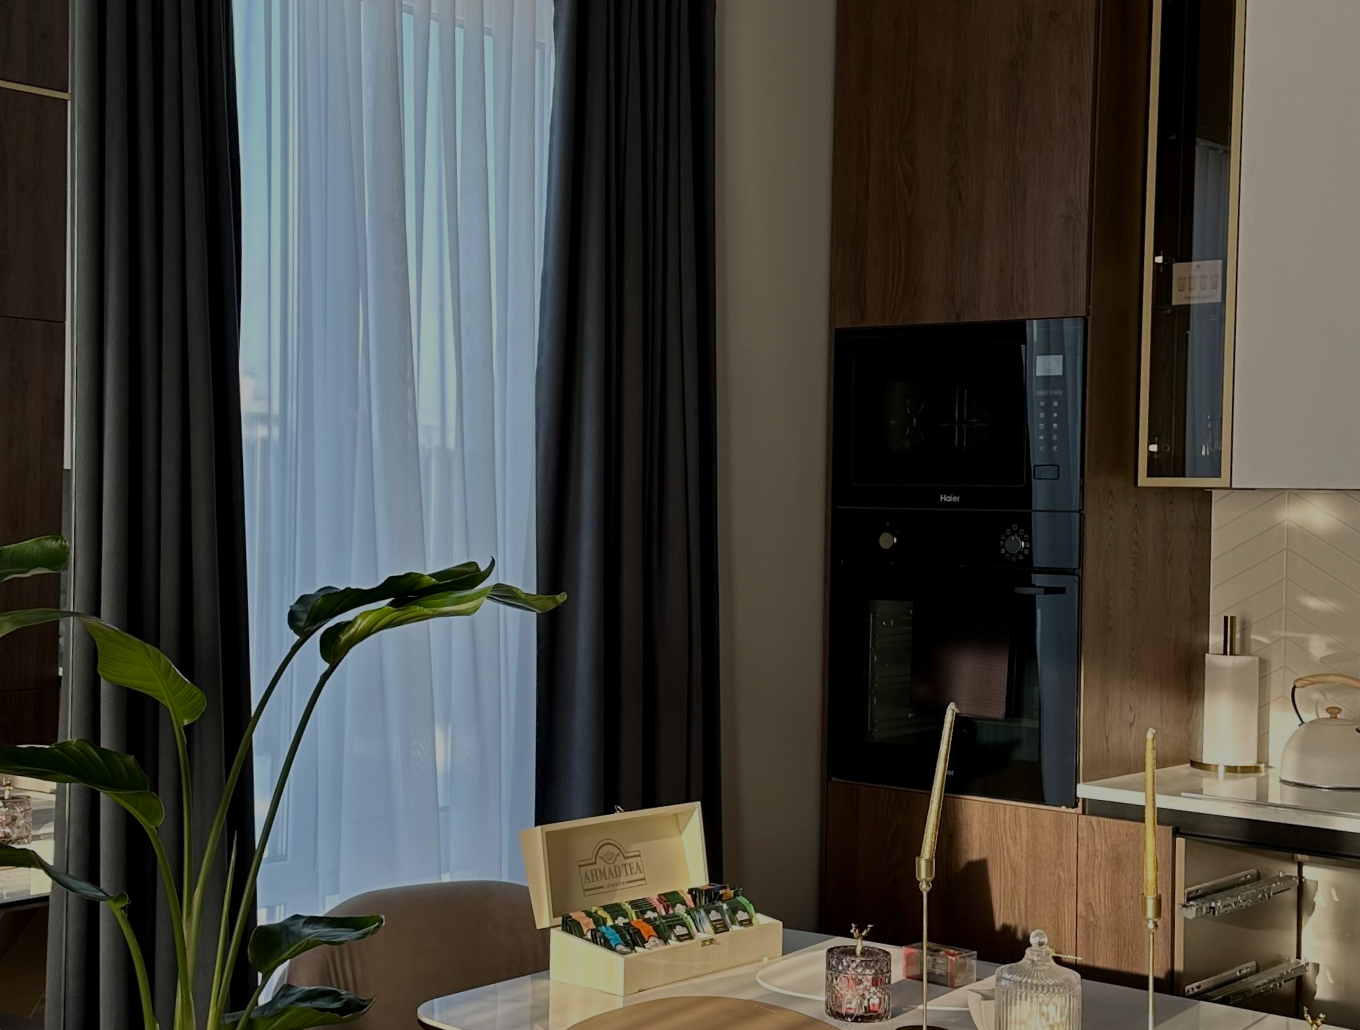
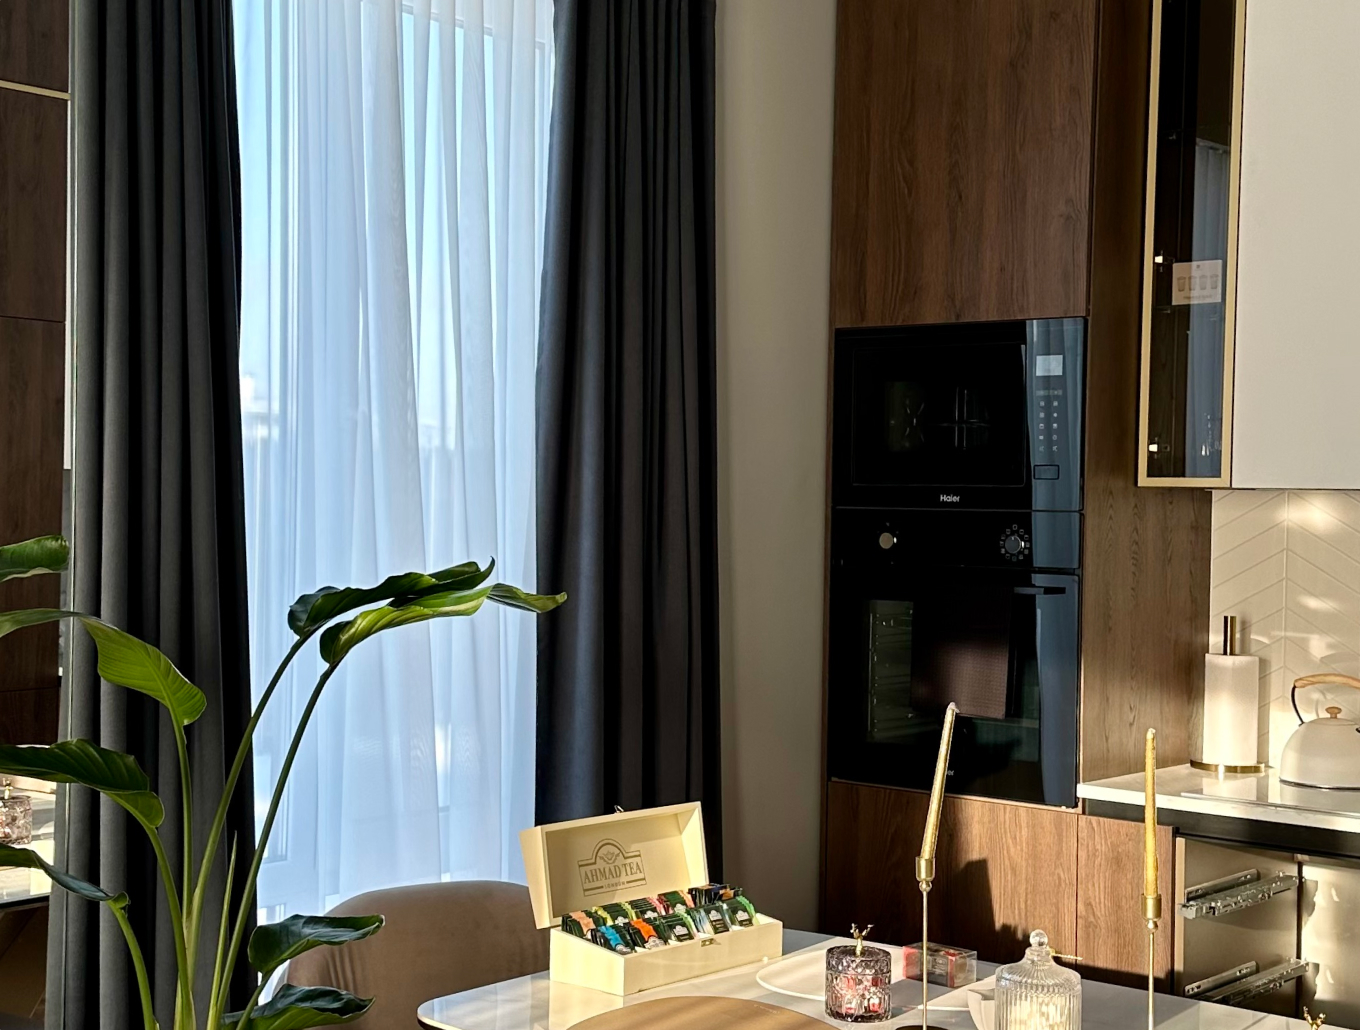
all edit

diff --git a/css/index.css b/css/index.css
@@ -1738,7 +1738,7 @@ header.sticky .header-outer {
   left: 0;
   width: 100%;
   height: 100%;
-  background: rgba(0, 0, 0, 0.15);
+  background: rgba(0, 0, 0, 0.3);
 }
 .top-section .img-wrapper img,
 .top-section .img-wrapper picture {
@@ -3703,5 +3703,60 @@ footer {
     opacity: 1;
     -webkit-clip-path: polygon(0% 10%, 100% -10%, 100% 100%, 0% 100%);
     clip-path: polygon(0% -1%, 100% -100%, 100% 100%, 0% 100%);
+  }
+}
+.whatsaupp-wpapper {
+  position: fixed;
+  bottom: 2rem;
+  right: 2rem;
+  z-index: 10;
+  width: 50px;
+  height: 50px;
+  cursor: pointer;
+  -webkit-animation: whatsAppScale 4s linear infinite;
+          animation: whatsAppScale 4s linear infinite;
+}
+@media screen and (max-width: 1199px) {
+  .whatsaupp-wpapper {
+    width: 40px;
+    height: 40px;
+  }
+}
+@media screen and (max-width: 767px) {
+  .whatsaupp-wpapper {
+    width: 30px;
+    height: 30px;
+    bottom: 1rem;
+    right: 1rem;
+  }
+}
+
+@-webkit-keyframes whatsAppScale {
+  0% {
+    -webkit-transform: scale(1);
+            transform: scale(1);
+  }
+  50% {
+    -webkit-transform: scale(1.2);
+            transform: scale(1.2);
+  }
+  100% {
+    -webkit-transform: scale(1);
+            transform: scale(1);
+  }
+}
+
+@keyframes whatsAppScale {
+  0% {
+    -webkit-transform: scale(1);
+            transform: scale(1);
+  }
+  50% {
+    -webkit-transform: scale(1.2);
+            transform: scale(1.2);
+  }
+  100% {
+    -webkit-transform: scale(1);
+            transform: scale(1);
   }
 }/*# sourceMappingURL=index.css.map */

diff --git a/scss/index.scss b/scss/index.scss
@@ -65,7 +65,7 @@ Theme Version:	1.0
             left: 0;
             width: 100%;
             height: 100%;
-            background: rgba(#000000, .15);
+            background: rgba(#000000, .3);
         }
 
         img,
@@ -266,5 +266,47 @@ Theme Version:	1.0
         opacity: 1;
         -webkit-clip-path: polygon(0% 10%, 100% -10%, 100% 100%, 0% 100%);
         clip-path: polygon(0% -1%, 100% -100%, 100% 100%, 0% 100%);
+    }
+}
+
+
+.whatsaupp-wpapper {
+    position: fixed;
+    bottom: 2rem;
+    right: 2rem;
+    z-index: 10;
+    width: 50px;
+    height: 50px;
+    cursor: pointer;
+    animation: whatsAppScale 4s linear infinite;
+
+    @media screen {
+
+        @media (max-width: 1199px) {
+            width: 40px;
+            height: 40px;
+        }
+
+        @media (max-width: 767px) {
+            width: 30px;
+            height: 30px;
+            bottom: 1rem;
+            right: 1rem;
+        }
+    }
+}
+
+@keyframes whatsAppScale {
+    0% {
+        transform: scale(1);
+
+    }
+
+    50% {
+        transform: scale(1.2);
+    }
+
+    100% {
+        transform: scale(1);
     }
 }

diff --git a/index.html b/index.html
@@ -83,8 +83,9 @@
         <section class="top-section flex-block" id="top-section">
             <div class="img-wrapper">
                 <picture>
-                    <source media="(min-width: 1600px)" srcset="./media/img/top-section/top-image-desc.jpg">
-                    <img src="./media/img/top-section/top-image-desc.jpg" alt="">
+                    <source media="(min-width: 1200px)" srcset="./media/img/top-section/top-image-desc.jpg">
+                    <source media="(min-width: 767px)" srcset="./media/img/top-section/top-image-tablet.jpg">
+                    <img src="./media/img/top-section/top-image-mob.jpg" alt="">
                 </picture>
             </div>
             <div class="new-container flex-block">
@@ -602,6 +603,11 @@
             </div>
         </div>
     </div>
+
+    <a href="https://wa.me/79600360100?text=%D0%9F%D1%80%D0%B8%D0%B2%D0%B5%D1%82!%20%F0%9F%91%8B%20%D0%9C%D0%B5%D0%BD%D1%8F%20%D0%B8%D0%BD%D1%82%D0%B5%D1%80%D0%B5%D1%81%D1%83%D0%B5%D1%82..."
+        class="whatsaupp-wpapper">
+        <img src="./media/icons/whatsapp.svg" alt="">
+    </a>
 </body>
 
 
